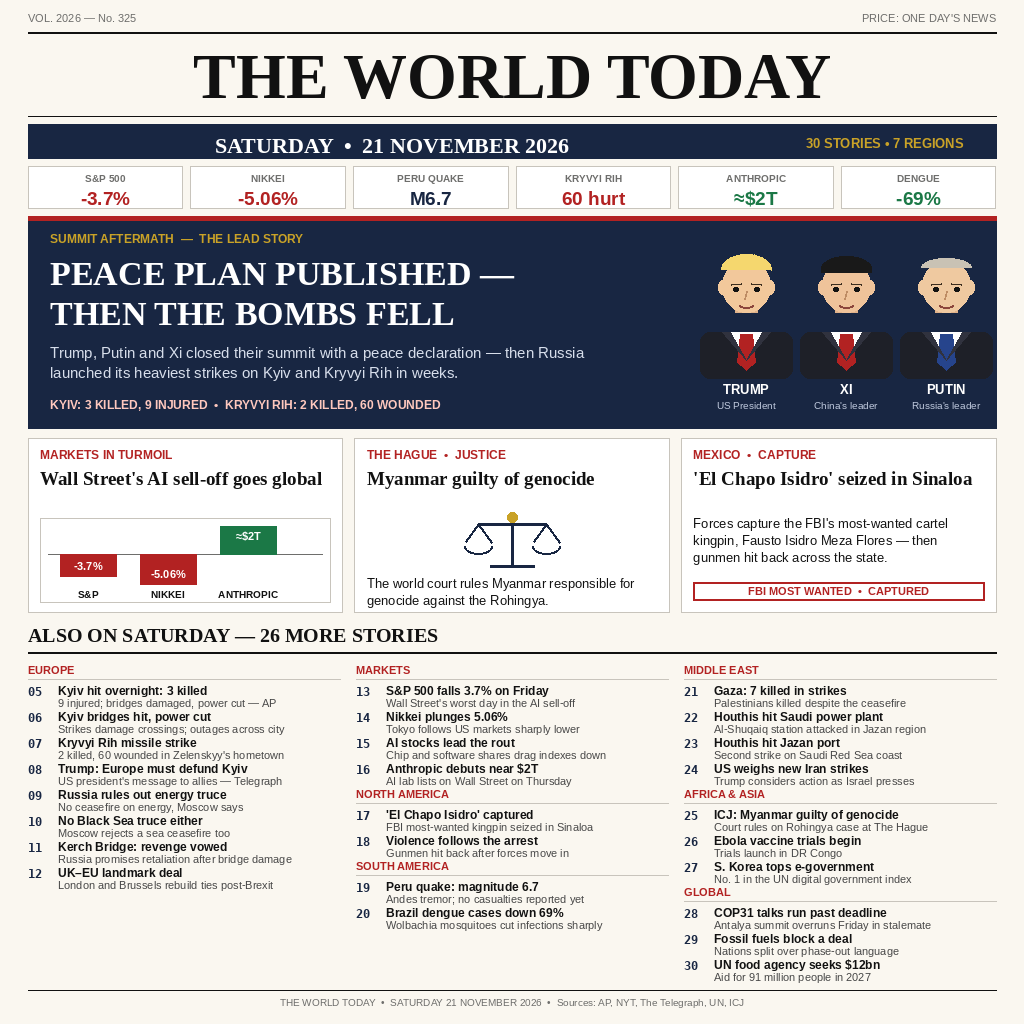
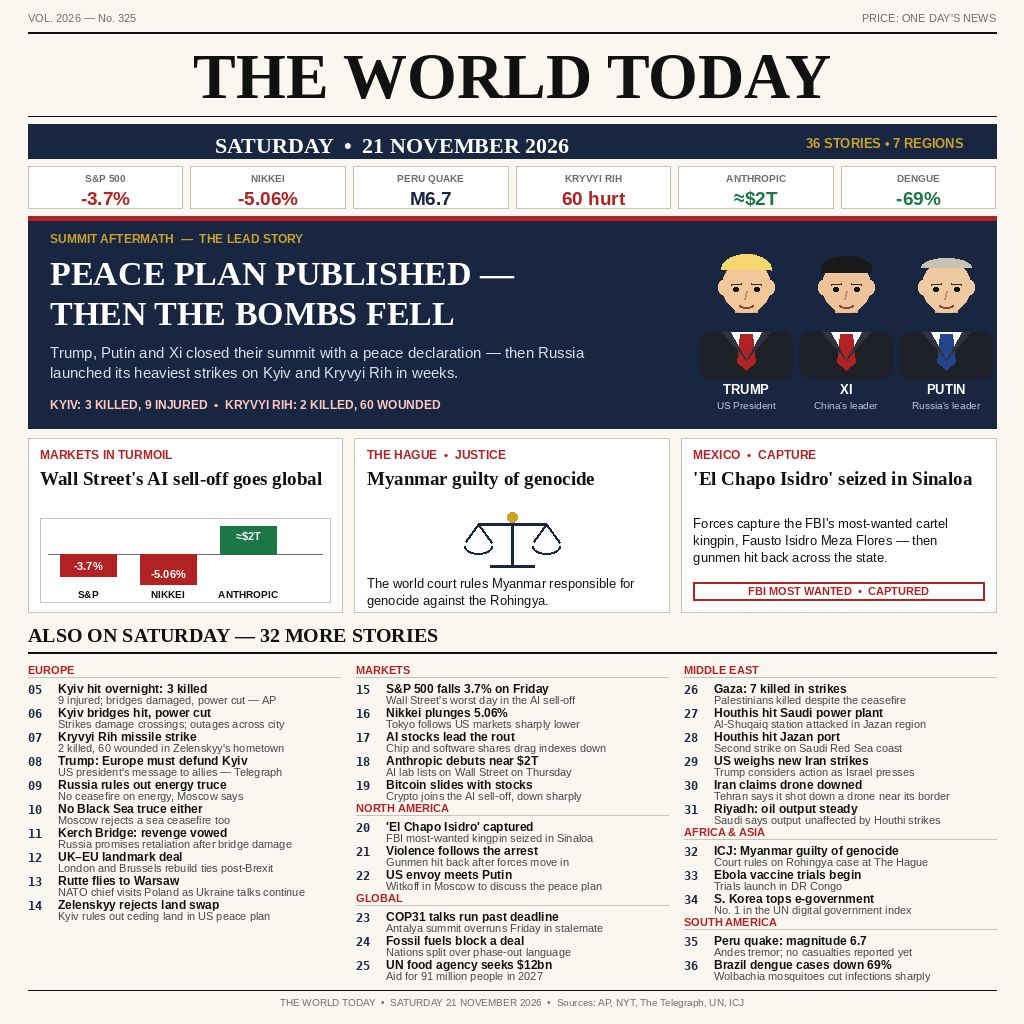
v2: 36 stories, 7 regions — add 6 stories, rebalance columns
- 30 -> 36 stories (list 26 -> 32): Rutte/Warsaw, Zelenskyy land swap,
  Iran drone claim, Bitcoin slides, Witkoff/Moscow, Riyadh oil steady
- Date band + list header updated to 36 / 32
- Columns rebalanced (EUROPE 10 | MARKETS+NA+GLOBAL 11 |
  MIDDLE EAST+AFRICA&ASIA+S.AMERICA 11), item spacing 26->24px,
  region header 20->18px; all columns end above footer y=990
- Deterministic: compose.py 2x runs byte-identical

diff --git a/compose.py b/compose.py
@@ -2,7 +2,7 @@
 """Render THE WORLD TODAY — Saturday 21 November 2026.
 
 A one-page digital front page summing up the day's world news:
-30 stories across 7 regions, drawn with Pillow only. Deterministic:
+36 stories across 7 regions, drawn with Pillow only. Deterministic:
 same input bytes in, same PNG bytes out (no timestamps, no randomness).
 Run:  python3 compose.py   -> writes entry.png beside this file.
 """
@@ -82,16 +82,20 @@ STORIES = [
         ("No Black Sea truce either", "Moscow rejects a sea ceasefire too"),
         ("Kerch Bridge: revenge vowed", "Russia promises retaliation after bridge damage"),
         ("UK–EU landmark deal", "London and Brussels rebuild ties post-Brexit"),
+        ("Rutte flies to Warsaw", "NATO chief visits Poland as Ukraine talks continue"),
+        ("Zelenskyy rejects land swap", "Kyiv rules out ceding land in US peace plan"),
     ]),
     ("MARKETS", [
         ("S&P 500 falls 3.7% on Friday", "Wall Street's worst day in the AI sell-off"),
         ("Nikkei plunges 5.06%", "Tokyo follows US markets sharply lower"),
         ("AI stocks lead the rout", "Chip and software shares drag indexes down"),
         ("Anthropic debuts near $2T", "AI lab lists on Wall Street on Thursday"),
+        ("Bitcoin slides with stocks", "Crypto joins the AI sell-off, down sharply"),
     ]),
     ("NORTH AMERICA", [
         ("'El Chapo Isidro' captured", "FBI most-wanted kingpin seized in Sinaloa"),
         ("Violence follows the arrest", "Gunmen hit back after forces move in"),
+        ("US envoy meets Putin", "Witkoff in Moscow to discuss the peace plan"),
     ]),
     ("SOUTH AMERICA", [
         ("Peru quake: magnitude 6.7", "Andes tremor; no casualties reported yet"),
@@ -102,6 +106,8 @@ STORIES = [
         ("Houthis hit Saudi power plant", "Al-Shuqaiq station attacked in Jazan region"),
         ("Houthis hit Jazan port", "Second strike on Saudi Red Sea coast"),
         ("US weighs new Iran strikes", "Trump considers action as Israel presses"),
+        ("Iran claims drone downed", "Tehran says it shot down a drone near its border"),
+        ("Riyadh: oil output steady", "Saudi says output unaffected by Houthi strikes"),
     ]),
     ("AFRICA & ASIA", [
         ("ICJ: Myanmar guilty of genocide", "Court rules on Rohingya case at The Hague"),
@@ -225,7 +231,7 @@ def main():
     # ---- date band
     d.rectangle([MX, 124, W - MX, 158], fill=NAVY)
     centre(d, "SATURDAY  •  21 NOVEMBER 2026", W // 2 - 120, 133, font(F_SERIF_B, 22), WHITE)
-    d.text((W - MX - 190, 136), "30 STORIES • 7 REGIONS", font=font(F_SANS_B, 13), fill=GOLD)
+    d.text((W - MX - 190, 136), "36 STORIES • 7 REGIONS", font=font(F_SANS_B, 13), fill=GOLD)
 
     # ---- stats strip
     y0, y1 = 166, 208
@@ -292,13 +298,15 @@ def main():
     d.rectangle([x0 + 12, fy1 - 30, x0 + cw - 12, fy1 - 12], outline=RED, width=2)
     centre(d, "FBI MOST WANTED  •  CAPTURED", x0 + cw / 2, fy1 - 27, font(F_SANS_B, 11), RED)
 
-    # ---- numbered list: 26 more stories, 7 regions
+    # ---- numbered list: 32 more stories, 7 regions
     ly = 624
-    d.text((MX, ly), "ALSO ON SATURDAY — 26 MORE STORIES", font=font(F_SERIF_B, 20), fill=INK)
+    d.text((MX, ly), "ALSO ON SATURDAY — 32 MORE STORIES", font=font(F_SERIF_B, 20), fill=INK)
     d.line([MX, ly + 28, W - MX, ly + 28], fill=INK, width=2)
     # distribute region groups over 3 columns, balanced by item count
+    # (36 stories: col1 EUROPE 10, col2 MARKETS+NA+GLOBAL 11,
+    #  col3 MIDDLE EAST+AFRICA&ASIA+S.AMERICA 11; 24px/item, 18px/header)
     groups = STORIES
-    col_groups = [[groups[0]], [groups[1], groups[2], groups[3]], [groups[4], groups[5], groups[6]]]
+    col_groups = [[groups[0]], [groups[1], groups[2], groups[6]], [groups[4], groups[5], groups[3]]]
     col_w = (W - 2 * MX - 2 * 16) / 3
     n = 4  # hero is story 01, the three features are 02-04
     for ci, cgroups in enumerate(col_groups):
@@ -306,16 +314,16 @@ def main():
         cy = ly + 40
         for region, items in cgroups:
             d.text((cx, cy), region, font=font(F_SANS_B, 11), fill=RED)
-            cy += 15
+            cy += 13
             d.line([cx, cy, cx + col_w, cy], fill=LINE, width=1)
             cy += 5
             for head, detail in items:
                 n += 1
                 d.text((cx, cy), "%02d" % n, font=font(F_MONO_B, 12), fill=NAVY)
                 d.text((cx + 30, cy), head, font=font(F_SANS_B, 12), fill=INK)
-                cy += 13
+                cy += 12
                 d.text((cx + 30, cy), detail, font=font(F_SANS, 11), fill=(70, 70, 70))
-                cy += 13
+                cy += 12
 
     # ---- footer
     d.line([MX, 990, W - MX, 990], fill=INK, width=1)
